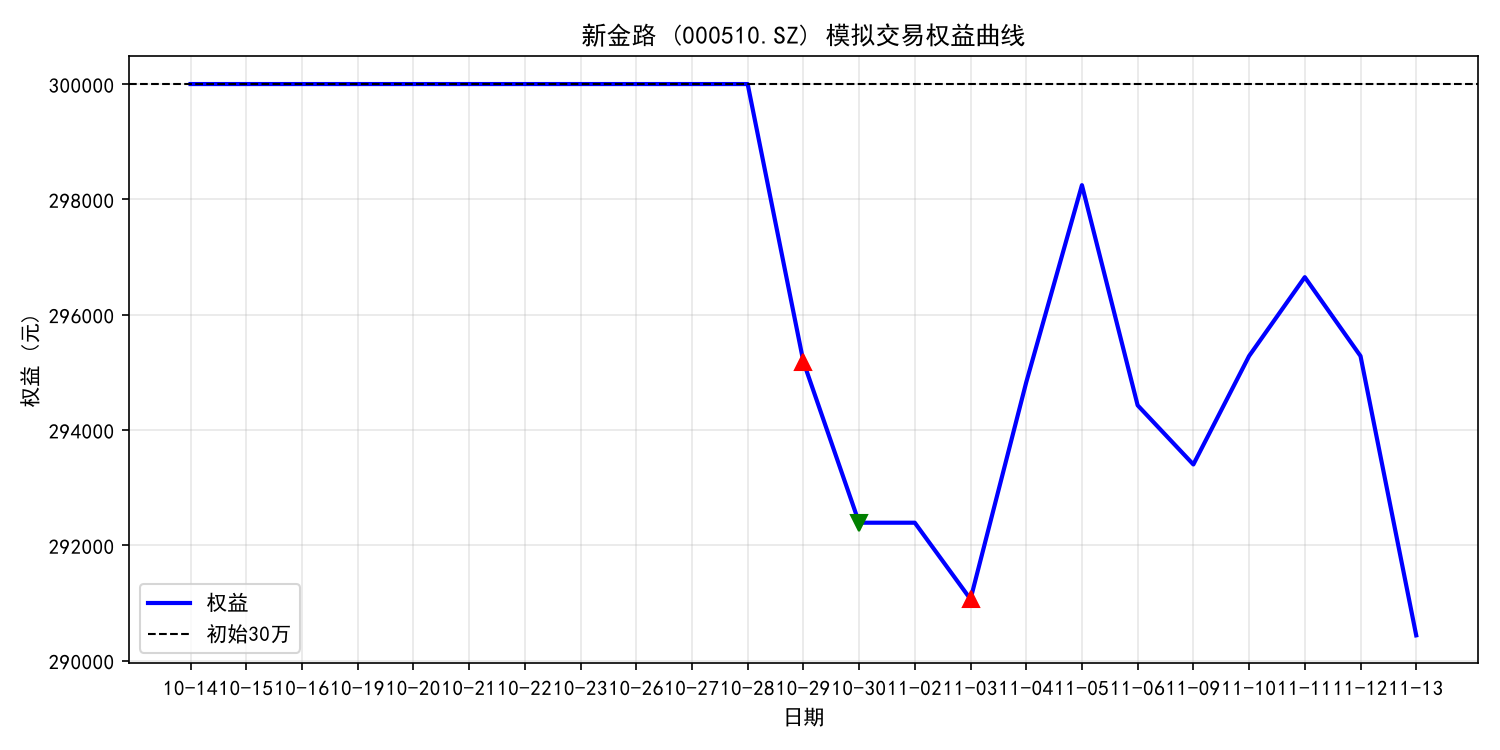
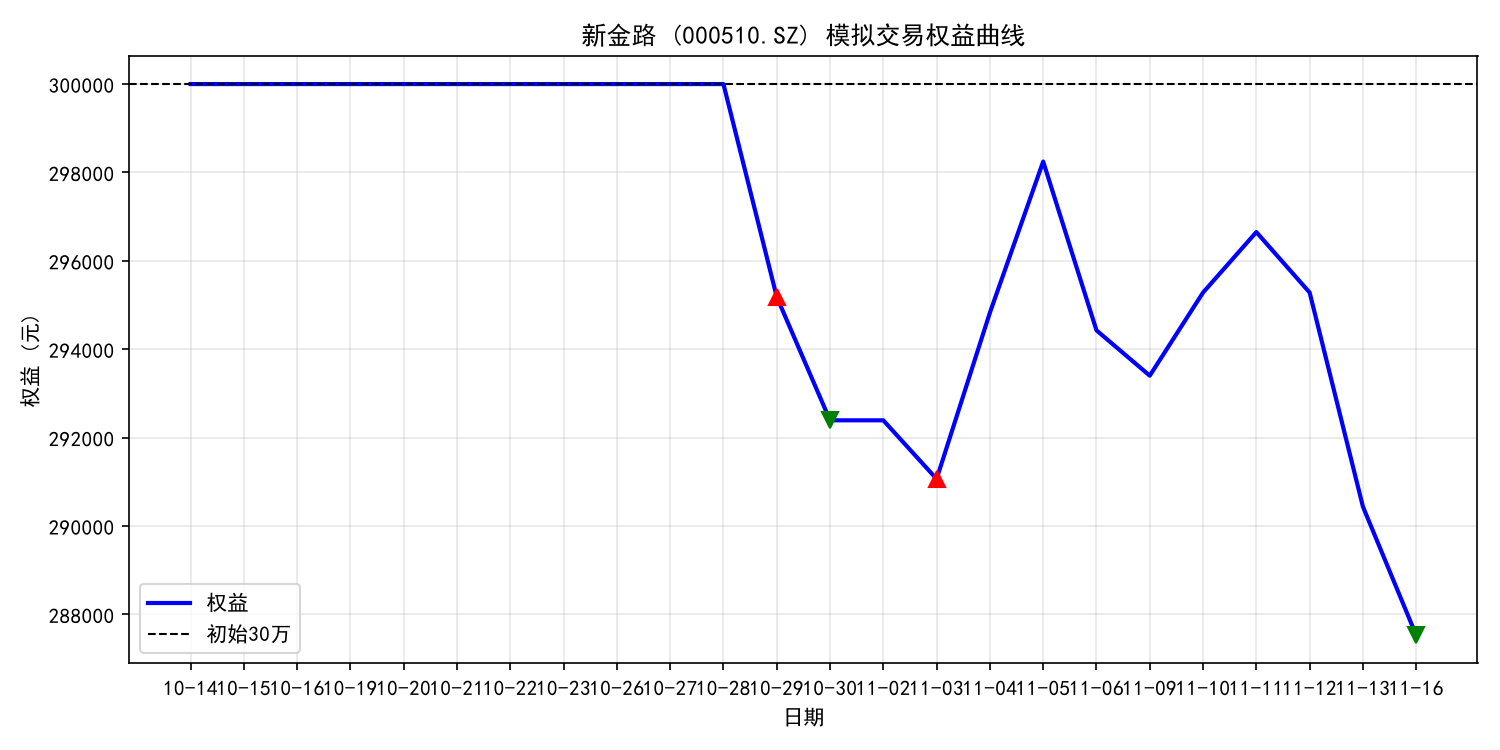
reports: 2026-11-16 自动更新

diff --git a/custom/数据掘金/2026-10-14-DrX-新金路箱体回归模拟交易.html b/custom/数据掘金/2026-10-14-DrX-新金路箱体回归模拟交易.html
@@ -20,17 +20,13 @@
 </blockquote>
 <!-- DAILY-CARD:START -->
 
-<h2>今日操作（2026-11-16 盘前）</h2>
+<h2>今日结果（2026-11-16 收盘）</h2>
 <ul>
-<li>
-<p>目前持仓：5,700 股新金路，成本 9.22 元；现金 239,821.35 元（截至 2026-11-13 收盘，权益 290,437.35 元，累计 -3.19%）
-<strong>今天怎么做：</strong></p>
-</li>
-<li>
-<p>止盈卖单：涨到 14.55 元，卖 2,800 股</p>
-</li>
-<li>止盈卖单：涨到 16.64 元，卖 2,900 股（剩余全部）</li>
-<li>止损单：盘中跌到 8.38 元，无条件卖出全部 5,700 股</li>
+<li>今日成交：卖出 5,700 股 @ 8.38 元（硬止损@止损价）</li>
+<li>收盘价：8.20 元（-7.66%）</li>
+<li>目前持仓：空仓</li>
+<li>账户权益：287,525.26 元，累计 -4.16%</li>
+<li>明天安排：空仓，等待新信号</li>
 </ul>
 <blockquote>
 <p>本卡每天早晚轮动更新，只显示当天内容；历史记录见下方「每日记录」。</p>
@@ -100,9 +96,9 @@
 <p><strong>关键修正</strong>：10-13 日最低价 14.01 跌破原箱体下沿。修复前代码会自动把箱体下沿下移至 14.01 并继续提示买入（死锁 bug）；修复后箱体锁定在 15.68–18.98，正确识别为<strong>破位</strong>，今日<strong>不买入、空仓观望</strong>。</p>
 <p><strong>首日信号</strong>：HOLD（破位观望）。等待价格重回箱体或形成新箱体后再行动。</p>
 <h2>最新 boxreg 图（每日更新）</h2>
-<p>截至 <strong>2026-11-13 收盘</strong>重算：当前价 8.88，MA20 10.58，MA60 14.73，回归中轨 12.17，箱体 9.36–13.33，+2σ 17.98 / -2σ 6.37。此图每日 17:00 用当日收盘数据重新计算（K线、MA20/MA60、回归通道、箱体全部更新），下方每日记录中另存当日图。</p>
-<p><img alt="新金路 boxreg 最新图（2026-11-13）" src="xinjinlu_boxreg_20261113.png" /></p>
-<h2>三、每日记录</h2><details class="older-records"><summary>更早的记录（共 20 条 · 2026-10-14 至 2026-11-10，点击展开）</summary>
+<p>截至 <strong>2026-11-16 收盘</strong>重算：当前价 8.20，MA20 10.33，MA60 14.59，回归中轨 11.85，箱体 9.16–12.45，+2σ 17.52 / -2σ 6.17。此图每日 17:00 用当日收盘数据重新计算（K线、MA20/MA60、回归通道、箱体全部更新），下方每日记录中另存当日图。</p>
+<p><img alt="新金路 boxreg 最新图（2026-11-16）" src="xinjinlu_boxreg_20261116.png" /></p>
+<h2>三、每日记录</h2><details class="older-records"><summary>更早的记录（共 21 条 · 2026-10-14 至 2026-11-11，点击展开）</summary>
 
 <h3>2026-10-14（收盘）</h3>
 <ul>
@@ -287,7 +283,6 @@
 </ul>
 <p><img alt="新金路 boxreg（2026-11-10）" src="xinjinlu_boxreg_20261110.png" /></p>
 <hr />
-</details>
 <h3>2026-11-11（收盘）</h3>
 <ul>
 <li>今日行情：开 9.71 / 高 10.02 / 低 9.50 / <strong>收 9.97</strong>（+2.47%，昨日收 9.73）</li>
@@ -299,6 +294,7 @@
 </ul>
 <p><img alt="新金路 boxreg（2026-11-11）" src="xinjinlu_boxreg_20261111.png" /></p>
 <hr />
+</details>
 <h3>2026-11-12（收盘）</h3>
 <ul>
 <li>今日行情：开 10.03 / 高 10.31 / 低 9.70 / <strong>收 9.73</strong>（-2.41%，昨日收 9.97）</li>
@@ -320,6 +316,17 @@
 <li>当日 boxreg 图（截至 11-13 收盘重算）：</li>
 </ul>
 <p><img alt="新金路 boxreg（2026-11-13）" src="xinjinlu_boxreg_20261113.png" /></p>
+<hr />
+<h3>2026-11-16（收盘）</h3>
+<ul>
+<li>今日行情：开 8.76 / 高 8.88 / 低 8.13 / <strong>收 8.20</strong>（-7.66%，昨日收 8.88）</li>
+<li>boxreg（截至今日收盘重算）：箱体 <strong>9.16–12.45</strong>（中轴 10.80），回归趋势下行（β=-0.0786/日）；MA20 10.33 / MA60 14.59；Box位置 <strong>-0.29</strong>，收盘跌破箱体下沿 → 破位状态延续，回归中轨 11.85 下方</li>
+<li>昨日信号成交情况：昨日为持有并挂三阶止盈单，今日<strong>硬止损触发成交</strong>：盘中最高 8.88 未触及 TP1 14.55；盘中最低 8.13 跌破锁定硬止损 8.38，<strong>以 8.38 卖出全部 5,700 股</strong>，成交额 47,766.00 元，费用 62.10 元，实现亏损 -4,865.86 元</li>
+<li>本次信号：<strong>STOP_LOSS 破位止损（已执行），空仓观望</strong>——trade_plan 判定 STOP_LOSS（收盘 8.20 跌破今日重算箱体下沿 9.16；计划止损线 8.50），持仓已按锁定硬止损 8.38 盘中离场；止损后全现金等下个信号，不开新仓</li>
+<li>资金：权益 <strong>287,525.26 元（全现金）</strong>，持仓 0 股；累计收益 <strong>-12,474.74 元（-4.16%）</strong></li>
+<li>当日 boxreg 图（截至 11-16 收盘重算）：</li>
+</ul>
+<p><img alt="新金路 boxreg（2026-11-16）" src="xinjinlu_boxreg_20261116.png" /></p>
 <hr />
 <p><em>本模拟为量化研究记录，不构成投资建议。</em></p>
 <p class="meta"><span class="lz">2026-10-14 发布 · 2026-11-16 更新 · 类型：数据掘金</span><span class="le">Published 2026-10-14 · Updated 2026-11-16 · Data Mining</span></p>

diff --git a/custom/数据掘金/2026-10-14-DrX-新金路箱体回归模拟交易.md b/custom/数据掘金/2026-10-14-DrX-新金路箱体回归模拟交易.md
@@ -6,13 +6,13 @@
 
 <!-- DAILY-CARD:START -->
 
-## 今日操作（2026-11-16 盘前）
+## 今日结果（2026-11-16 收盘）
 
-- 目前持仓：5,700 股新金路，成本 9.22 元；现金 239,821.35 元（截至 2026-11-13 收盘，权益 290,437.35 元，累计 -3.19%）
-**今天怎么做：**
-- 止盈卖单：涨到 14.55 元，卖 2,800 股
-- 止盈卖单：涨到 16.64 元，卖 2,900 股（剩余全部）
-- 止损单：盘中跌到 8.38 元，无条件卖出全部 5,700 股
+- 今日成交：卖出 5,700 股 @ 8.38 元（硬止损@止损价）
+- 收盘价：8.20 元（-7.66%）
+- 目前持仓：空仓
+- 账户权益：287,525.26 元，累计 -4.16%
+- 明天安排：空仓，等待新信号
 
 > 本卡每天早晚轮动更新，只显示当天内容；历史记录见下方「每日记录」。
 
@@ -65,9 +65,9 @@
 
 ## 最新 boxreg 图（每日更新）
 
-截至 **2026-11-13 收盘**重算：当前价 8.88，MA20 10.58，MA60 14.73，回归中轨 12.17，箱体 9.36–13.33，+2σ 17.98 / -2σ 6.37。此图每日 17:00 用当日收盘数据重新计算（K线、MA20/MA60、回归通道、箱体全部更新），下方每日记录中另存当日图。
+截至 **2026-11-16 收盘**重算：当前价 8.20，MA20 10.33，MA60 14.59，回归中轨 11.85，箱体 9.16–12.45，+2σ 17.52 / -2σ 6.17。此图每日 17:00 用当日收盘数据重新计算（K线、MA20/MA60、回归通道、箱体全部更新），下方每日记录中另存当日图。
 
-![新金路 boxreg 最新图（2026-11-13）](xinjinlu_boxreg_20261113.png)
+![新金路 boxreg 最新图（2026-11-16）](xinjinlu_boxreg_20261116.png)
 
 ## 三、每日记录
 
@@ -277,6 +277,18 @@
 - 当日 boxreg 图（截至 11-13 收盘重算）：
 
 ![新金路 boxreg（2026-11-13）](xinjinlu_boxreg_20261113.png)
+
+---
+
+### 2026-11-16（收盘）
+- 今日行情：开 8.76 / 高 8.88 / 低 8.13 / **收 8.20**（-7.66%，昨日收 8.88）
+- boxreg（截至今日收盘重算）：箱体 **9.16–12.45**（中轴 10.80），回归趋势下行（β=-0.0786/日）；MA20 10.33 / MA60 14.59；Box位置 **-0.29**，收盘跌破箱体下沿 → 破位状态延续，回归中轨 11.85 下方
+- 昨日信号成交情况：昨日为持有并挂三阶止盈单，今日**硬止损触发成交**：盘中最高 8.88 未触及 TP1 14.55；盘中最低 8.13 跌破锁定硬止损 8.38，**以 8.38 卖出全部 5,700 股**，成交额 47,766.00 元，费用 62.10 元，实现亏损 -4,865.86 元
+- 本次信号：**STOP_LOSS 破位止损（已执行），空仓观望**——trade_plan 判定 STOP_LOSS（收盘 8.20 跌破今日重算箱体下沿 9.16；计划止损线 8.50），持仓已按锁定硬止损 8.38 盘中离场；止损后全现金等下个信号，不开新仓
+- 资金：权益 **287,525.26 元（全现金）**，持仓 0 股；累计收益 **-12,474.74 元（-4.16%）**
+- 当日 boxreg 图（截至 11-16 收盘重算）：
+
+![新金路 boxreg（2026-11-16）](xinjinlu_boxreg_20261116.png)
 
 ---
 
